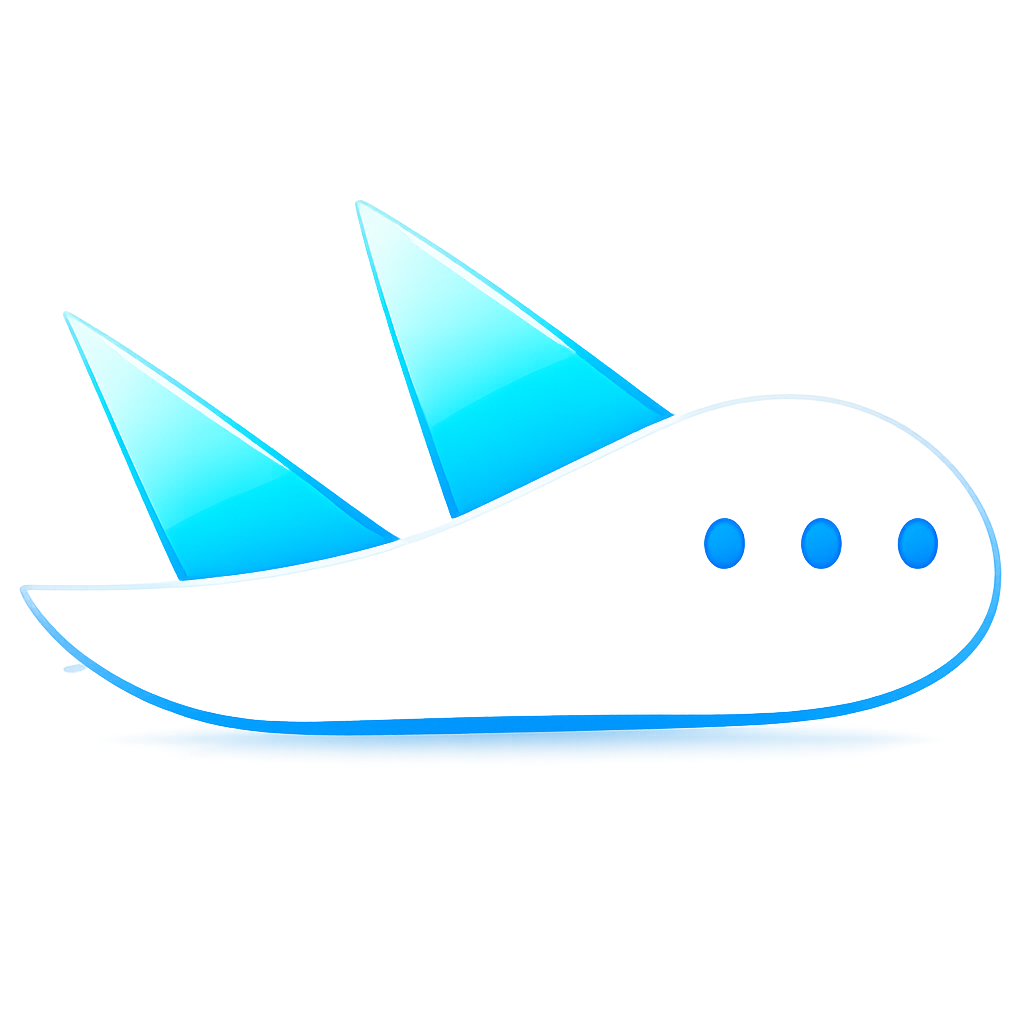
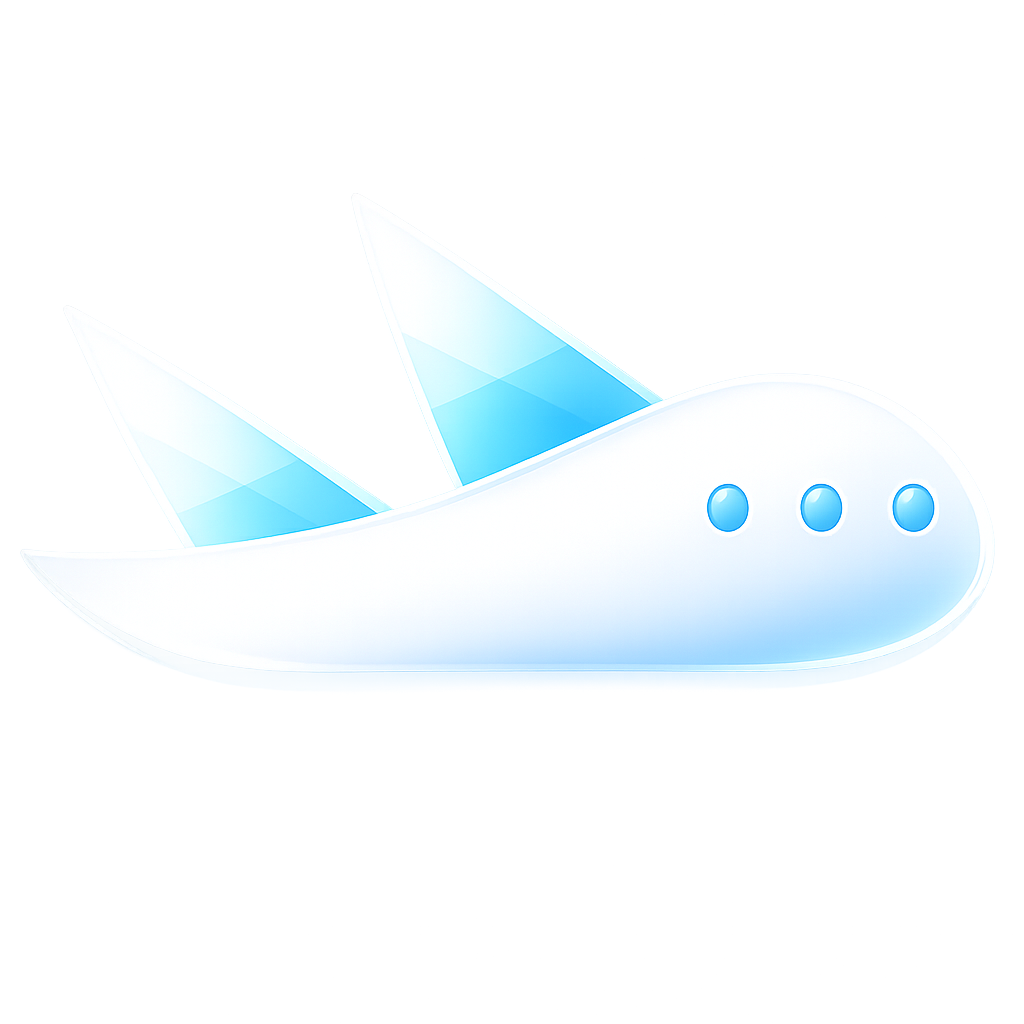
Release 0.1.5 glass bubble and plane asset

diff --git a/Sources/Airmessage/main.swift b/Sources/Airmessage/main.swift
@@ -892,6 +892,7 @@ final class FlightView: NSView {
     private let ropeLayer = CAShapeLayer()
     private let flagHighlightLayer = CAShapeLayer()
     private let textLayer = CATextLayer()
+    private let planeImageLayer = CALayer()
     private let planeLayer = CAShapeLayer()
     private let bellyAccentLayer = CAShapeLayer()
     private let wingLayer = CAShapeLayer()
@@ -902,6 +903,7 @@ final class FlightView: NSView {
     private var flightOrigin = CGPoint(x: 0, y: 0)
     private var flightOpacity: CGFloat = 1
     private var bannerWidth: CGFloat = 132
+    private var usesPlaneImage = false
     private(set) var flightHitFrame = CGRect.zero
     var currentOpacity: CGFloat {
         flightOpacity
@@ -961,22 +963,23 @@ final class FlightView: NSView {
 
         let flutter = sin(flightOrigin.x / 82) * 4.5
         let formationBob = sin(flightOrigin.x / 46) * 3.2 + sin(flightOrigin.x / 119) * 1.4
-        let bannerFrame = CGRect(x: flightOrigin.x, y: flightOrigin.y + 24 + formationBob, width: bannerWidth, height: 32)
+        let bannerFrame = CGRect(x: flightOrigin.x, y: flightOrigin.y + 24 + formationBob, width: bannerWidth, height: 34)
         bannerLayer.frame = bannerFrame
         bannerLayer.path = flagPath(in: CGRect(origin: .zero, size: bannerFrame.size), wave: flutter).cgPath
         flagHighlightLayer.frame = bannerFrame
         flagHighlightLayer.path = flagHighlightPath(in: CGRect(origin: .zero, size: bannerFrame.size)).cgPath
 
-        textLayer.frame = bannerFrame.insetBy(dx: 14, dy: 8)
+        textLayer.frame = bannerFrame.insetBy(dx: 14, dy: 9)
 
-        let planeFrame = CGRect(x: bannerFrame.maxX + 20, y: flightOrigin.y + 4 + formationBob, width: 126, height: 78)
+        let planeFrame = CGRect(x: bannerFrame.maxX + 9, y: flightOrigin.y + 4 + formationBob, width: 154, height: 79)
         flightHitFrame = bannerFrame.union(planeFrame)
         ropeLayer.frame = bounds
-        let tailAnchor = CGPoint(x: planeFrame.minX + 24, y: planeFrame.minY + 43)
-        ropeLayer.path = ropePath(from: CGPoint(x: bannerFrame.maxX - 8, y: bannerFrame.midY), to: tailAnchor).cgPath
+        let tailAnchor = CGPoint(x: planeFrame.minX + 8, y: planeFrame.minY + 41)
+        ropeLayer.path = ropePath(from: CGPoint(x: bannerFrame.maxX - 2, y: bannerFrame.midY), to: tailAnchor).cgPath
         tailHookLayer.frame = CGRect(x: tailAnchor.x - 2.5, y: tailAnchor.y - 2.5, width: 5, height: 5)
         tailHookLayer.path = NSBezierPath(ovalIn: tailHookLayer.bounds).cgPath
 
+        planeImageLayer.frame = planeFrame
         planeLayer.frame = planeFrame
         planeLayer.path = planePath(in: planeLayer.bounds).cgPath
         bellyAccentLayer.frame = planeFrame
@@ -992,31 +995,35 @@ final class FlightView: NSView {
         ropeLayer.opacity = Float(flightOpacity * 0.78)
         flagHighlightLayer.opacity = Float(flightOpacity)
         textLayer.opacity = Float(flightOpacity)
-        planeLayer.opacity = Float(flightOpacity)
-        bellyAccentLayer.opacity = Float(flightOpacity * 0.9)
-        wingLayer.opacity = Float(flightOpacity)
-        tailLayer.opacity = Float(flightOpacity)
-        tailHookLayer.opacity = Float(flightOpacity)
-        windowLayer.opacity = Float(flightOpacity)
+        planeImageLayer.opacity = Float(flightOpacity)
+        let vectorOpacity = usesPlaneImage ? CGFloat(0) : flightOpacity
+        planeLayer.opacity = Float(vectorOpacity)
+        bellyAccentLayer.opacity = Float(vectorOpacity * 0.9)
+        wingLayer.opacity = Float(vectorOpacity)
+        tailLayer.opacity = Float(vectorOpacity)
+        tailHookLayer.opacity = Float(usesPlaneImage ? flightOpacity * 0.55 : flightOpacity)
+        windowLayer.opacity = Float(vectorOpacity)
 
         CATransaction.commit()
     }
 
     private func setupLayers() {
-        bannerLayer.fillColor = NSColor(calibratedRed: 0.30, green: 0.76, blue: 0.88, alpha: 0.90).cgColor
-        bannerLayer.shadowColor = NSColor.black.cgColor
-        bannerLayer.shadowOpacity = 0.15
-        bannerLayer.shadowRadius = 10
-        bannerLayer.shadowOffset = CGSize(width: 0, height: -3)
+        bannerLayer.fillColor = NSColor(calibratedRed: 0.50, green: 0.88, blue: 0.94, alpha: 0.34).cgColor
+        bannerLayer.strokeColor = NSColor(calibratedWhite: 1, alpha: 0.46).cgColor
+        bannerLayer.lineWidth = 1.1
+        bannerLayer.shadowColor = NSColor(calibratedRed: 0.02, green: 0.45, blue: 0.72, alpha: 1).cgColor
+        bannerLayer.shadowOpacity = 0.22
+        bannerLayer.shadowRadius = 12
+        bannerLayer.shadowOffset = CGSize(width: 0, height: -2)
 
-        flagHighlightLayer.fillColor = NSColor(calibratedWhite: 1, alpha: 0.24).cgColor
+        flagHighlightLayer.fillColor = NSColor(calibratedWhite: 1, alpha: 0.32).cgColor
         ropeLayer.fillColor = nil
-        ropeLayer.strokeColor = NSColor(calibratedRed: 0.61, green: 0.88, blue: 0.94, alpha: 0.92).cgColor
-        ropeLayer.lineWidth = 1.5
+        ropeLayer.strokeColor = NSColor(calibratedRed: 0.76, green: 0.95, blue: 0.98, alpha: 0.84).cgColor
+        ropeLayer.lineWidth = 1.4
         ropeLayer.lineCap = .round
 
         textLayer.string = message
-        textLayer.foregroundColor = NSColor.white.cgColor
+        textLayer.foregroundColor = NSColor(calibratedWhite: 1, alpha: 0.96).cgColor
         textLayer.font = NSFont.systemFont(ofSize: 13, weight: .semibold)
         textLayer.fontSize = 13
         textLayer.contentsScale = NSScreen.main?.backingScaleFactor ?? 2
@@ -1050,10 +1057,20 @@ final class FlightView: NSView {
 
         windowLayer.fillColor = NSColor(calibratedRed: 0.03, green: 0.55, blue: 0.92, alpha: 0.88).cgColor
 
+        if let planeURL = Bundle.main.url(forResource: "FlightPlane", withExtension: "png"),
+           let planeImage = NSImage(contentsOf: planeURL) {
+            usesPlaneImage = true
+            planeImageLayer.contents = planeImage
+            planeImageLayer.contentsGravity = .resizeAspect
+            planeImageLayer.contentsScale = NSScreen.main?.backingScaleFactor ?? 2
+            planeImageLayer.masksToBounds = false
+        }
+
         layer?.addSublayer(bannerLayer)
         layer?.addSublayer(flagHighlightLayer)
         layer?.addSublayer(textLayer)
         layer?.addSublayer(ropeLayer)
+        layer?.addSublayer(planeImageLayer)
         layer?.addSublayer(tailLayer)
         layer?.addSublayer(wingLayer)
         layer?.addSublayer(planeLayer)
@@ -1066,23 +1083,18 @@ final class FlightView: NSView {
     }
 
     private func flagPath(in rect: CGRect, wave: CGFloat) -> NSBezierPath {
-        let wave = wave * 0.55
+        let insetRect = rect.insetBy(dx: 0.8, dy: 1.2)
         let path = NSBezierPath()
-        path.move(to: CGPoint(x: rect.minX + 10, y: rect.minY + 2))
-        path.curve(to: CGPoint(x: rect.maxX - 7, y: rect.minY + 6 + wave), controlPoint1: CGPoint(x: rect.width * 0.32, y: rect.minY - 3), controlPoint2: CGPoint(x: rect.width * 0.70, y: rect.minY + 8))
-        path.curve(to: CGPoint(x: rect.maxX - 10, y: rect.maxY - 6 - wave), controlPoint1: CGPoint(x: rect.maxX + 4, y: rect.midY + 4), controlPoint2: CGPoint(x: rect.maxX - 2, y: rect.maxY - 3))
-        path.curve(to: CGPoint(x: rect.minX + 9, y: rect.maxY - 2), controlPoint1: CGPoint(x: rect.width * 0.68, y: rect.maxY - 10), controlPoint2: CGPoint(x: rect.width * 0.28, y: rect.maxY + 4))
-        path.curve(to: CGPoint(x: rect.minX + 10, y: rect.minY + 2), controlPoint1: CGPoint(x: rect.minX - 2, y: rect.maxY - 8), controlPoint2: CGPoint(x: rect.minX - 1, y: rect.minY + 8))
-        path.close()
+        path.appendRoundedRect(insetRect, xRadius: insetRect.height / 2, yRadius: insetRect.height / 2)
         return path
     }
 
     private func flagHighlightPath(in rect: CGRect) -> NSBezierPath {
         let path = NSBezierPath()
-        path.move(to: CGPoint(x: rect.minX + 15, y: rect.maxY - 10))
-        path.curve(to: CGPoint(x: rect.maxX - 20, y: rect.maxY - 10), controlPoint1: CGPoint(x: rect.width * 0.36, y: rect.maxY - 4), controlPoint2: CGPoint(x: rect.width * 0.65, y: rect.maxY - 15))
-        path.curve(to: CGPoint(x: rect.maxX - 32, y: rect.maxY - 16), controlPoint1: CGPoint(x: rect.maxX - 23, y: rect.maxY - 14), controlPoint2: CGPoint(x: rect.maxX - 27, y: rect.maxY - 16))
-        path.curve(to: CGPoint(x: rect.minX + 18, y: rect.maxY - 16), controlPoint1: CGPoint(x: rect.width * 0.62, y: rect.maxY - 21), controlPoint2: CGPoint(x: rect.width * 0.28, y: rect.maxY - 11))
+        path.move(to: CGPoint(x: rect.minX + 18, y: rect.maxY - 9))
+        path.curve(to: CGPoint(x: rect.maxX - 24, y: rect.maxY - 9), controlPoint1: CGPoint(x: rect.width * 0.34, y: rect.maxY - 3), controlPoint2: CGPoint(x: rect.width * 0.66, y: rect.maxY - 13))
+        path.line(to: CGPoint(x: rect.maxX - 36, y: rect.maxY - 13))
+        path.curve(to: CGPoint(x: rect.minX + 21, y: rect.maxY - 14), controlPoint1: CGPoint(x: rect.width * 0.62, y: rect.maxY - 19), controlPoint2: CGPoint(x: rect.width * 0.31, y: rect.maxY - 10))
         path.close()
         return path
     }

diff --git a/README.md b/README.md
@@ -1,6 +1,6 @@
 # Airmessage
 
-Version: `0.1.4`
+Version: `0.1.5`
 
 一个极简 macOS 菜单栏小工具：到点时从桌面飞过一架小飞机，带一条低频消息提醒。
 
@@ -25,7 +25,7 @@ chmod +x build_dmg.sh
 ./build_dmg.sh
 ```
 
-生成的 `Airmessage-0.1.4.dmg` 打开后，把 `Airmessage.app` 拖到 `Applications` 即可。
+生成的 `Airmessage-0.1.5.dmg` 打开后，把 `Airmessage.app` 拖到 `Applications` 即可。
 
 ## 功能
 
@@ -37,7 +37,7 @@ chmod +x build_dmg.sh
 - 支持暂停、继续、立刻试飞。
 - 支持 `右 Command + 右 Option + 0` 快捷试飞，并注册系统级 `Command + Option + 0` 以便桌面空白时也能触发。
 - 飞机飞过时可用鼠标左键拖动位置，松开后继续向右飞行。
-- 白色飞机牵引湖蓝色飘旗提醒，从桌面层优雅掠过。
+- 白色飞机牵引透明毛玻璃消息气泡，从桌面层优雅掠过。
 - 内置多种 fly-by 音效，可在菜单栏开关和选择。
 
 ## 自定义音效
